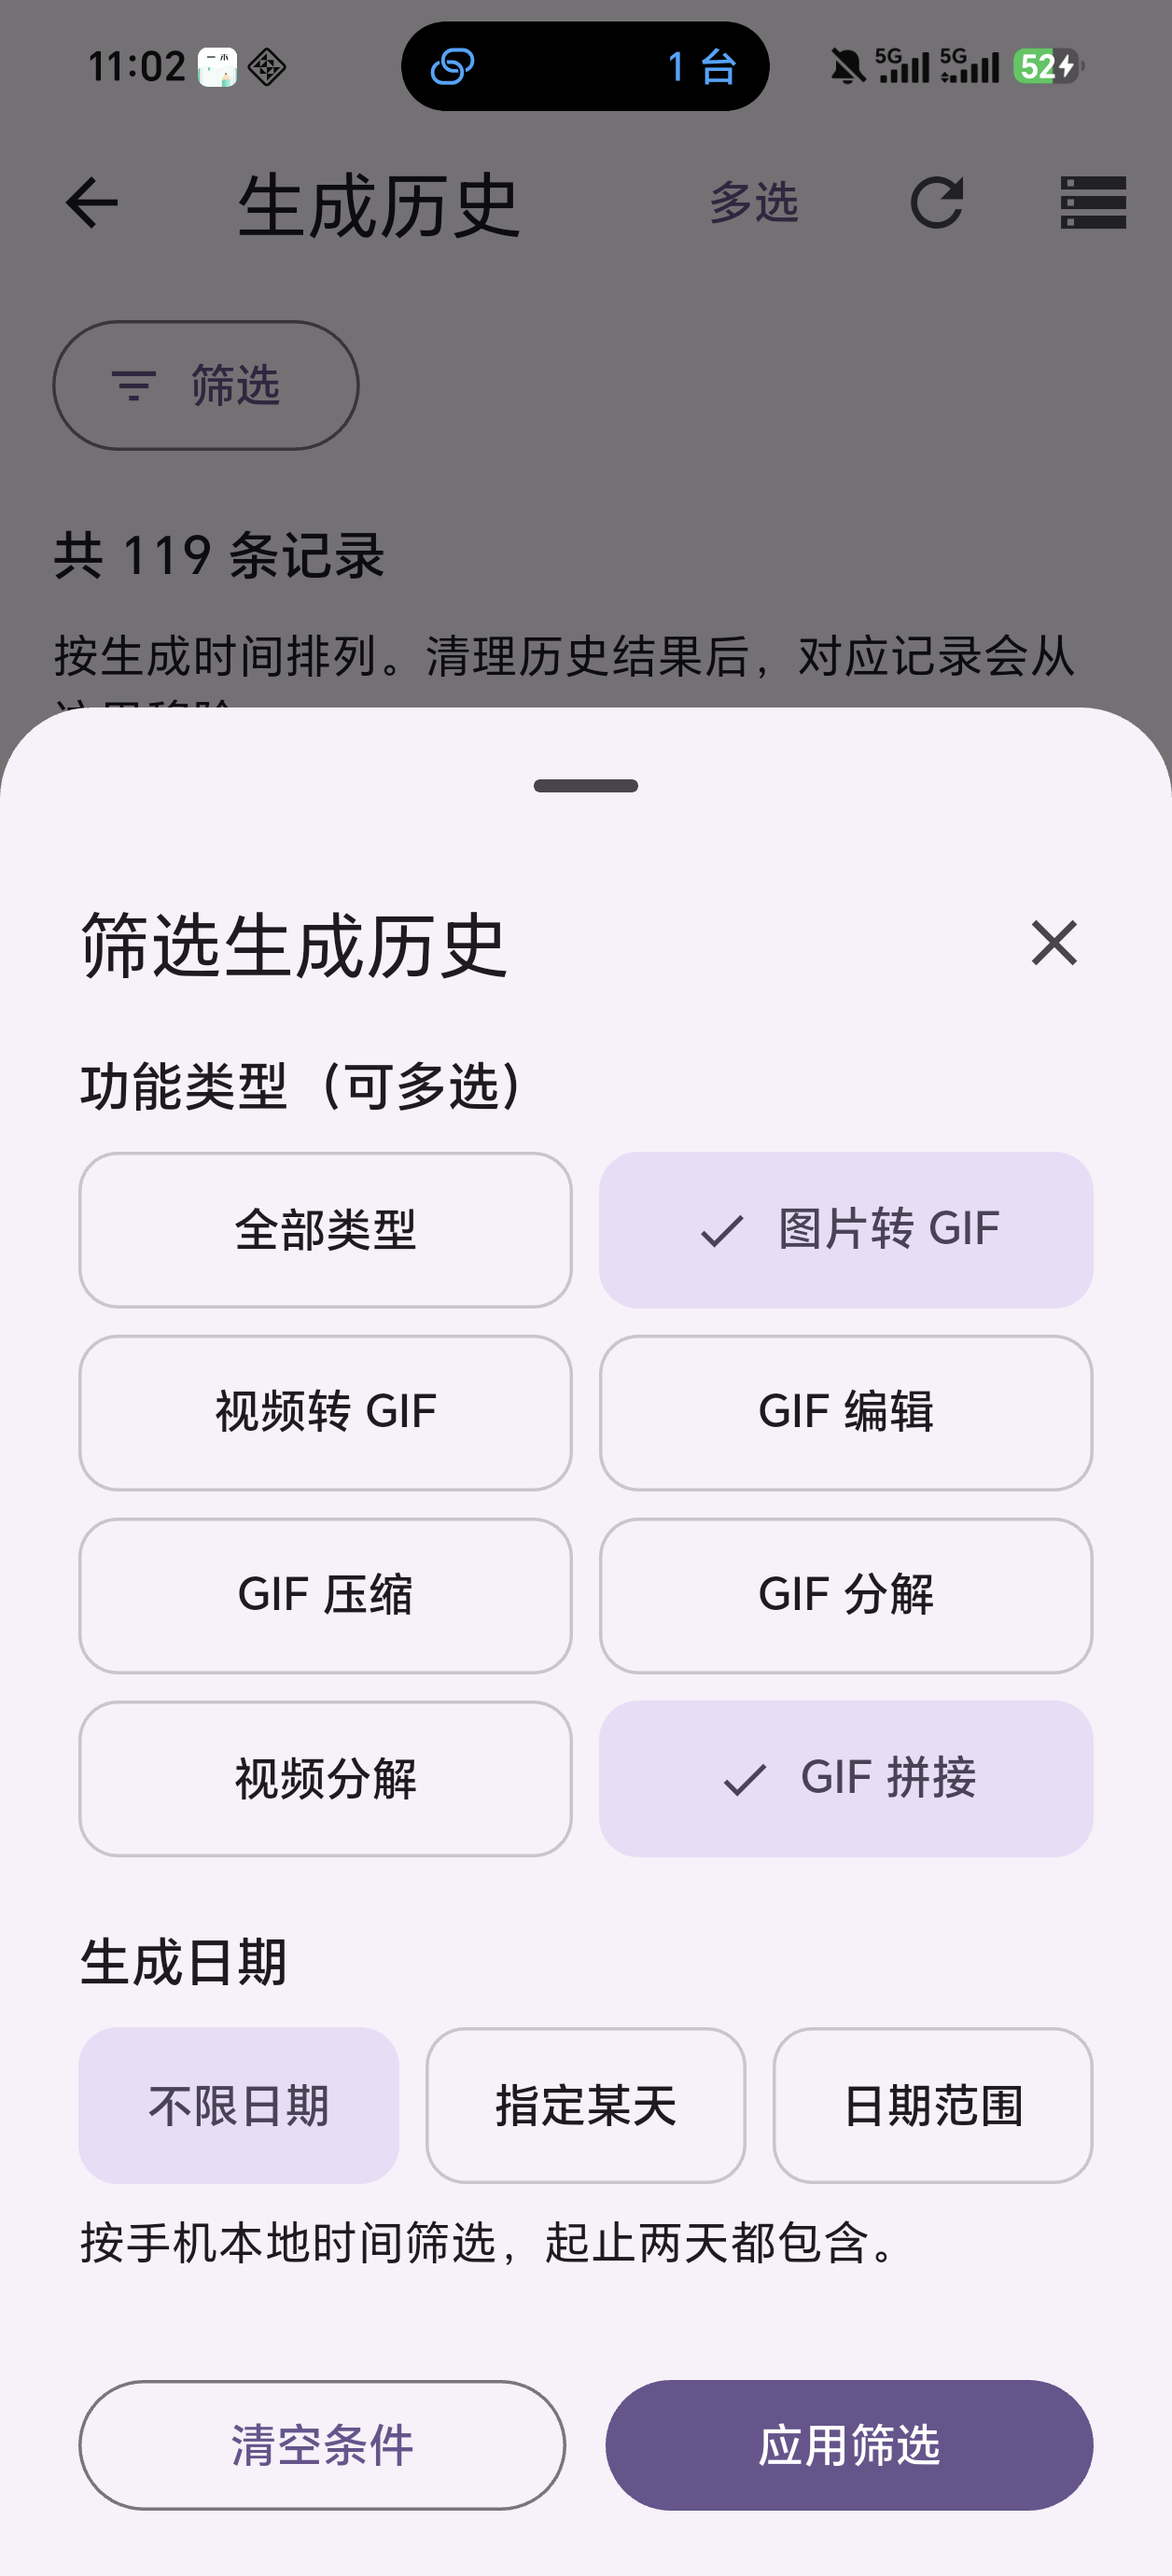
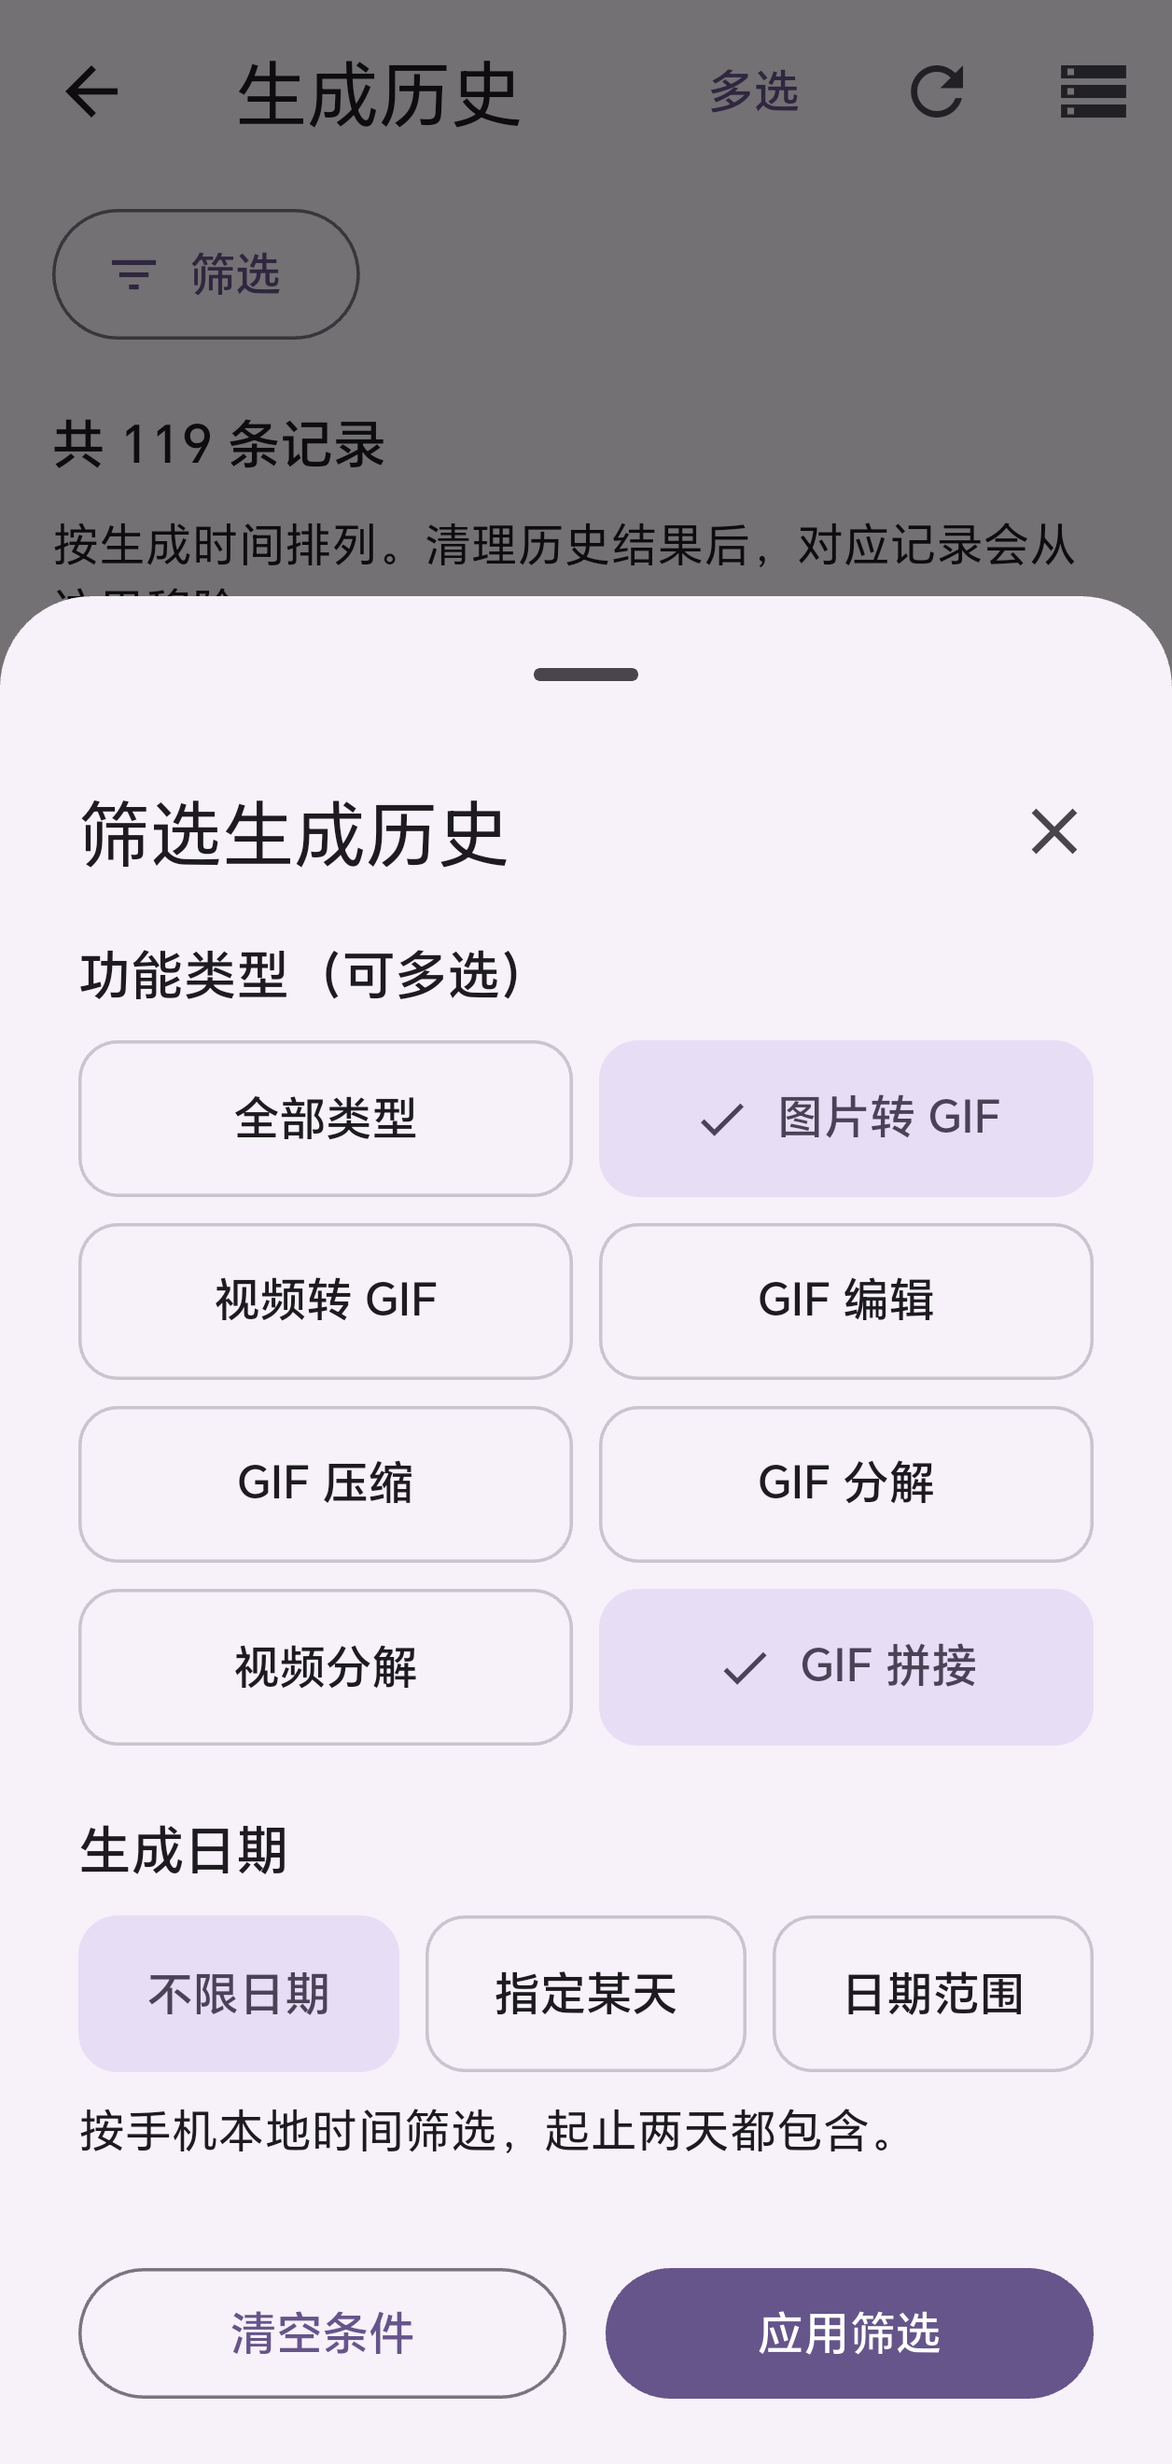
docs: 裁去介绍截图中的手机状态栏
六张实机截图统一裁去顶部 119 像素，保留完整应用标题和界面内容。
更新介绍文字与截图尺寸记录，保留区域逐像素核对一致。

diff --git a/README.md b/README.md
@@ -40,7 +40,7 @@ APK SHA-256：
 
 ## 应用界面
 
-以下为 v0.1.0 build 6 的手机实机截图，示例素材使用本项目图标。点击图片可查看大图。
+以下为 v0.1.0 build 6 的手机实机截图，已裁去顶部系统状态栏，示例素材使用本项目图标。点击图片可查看大图。
 
 | 首页 | 图片转 GIF | 结果预览 |
 | --- | --- | --- |
